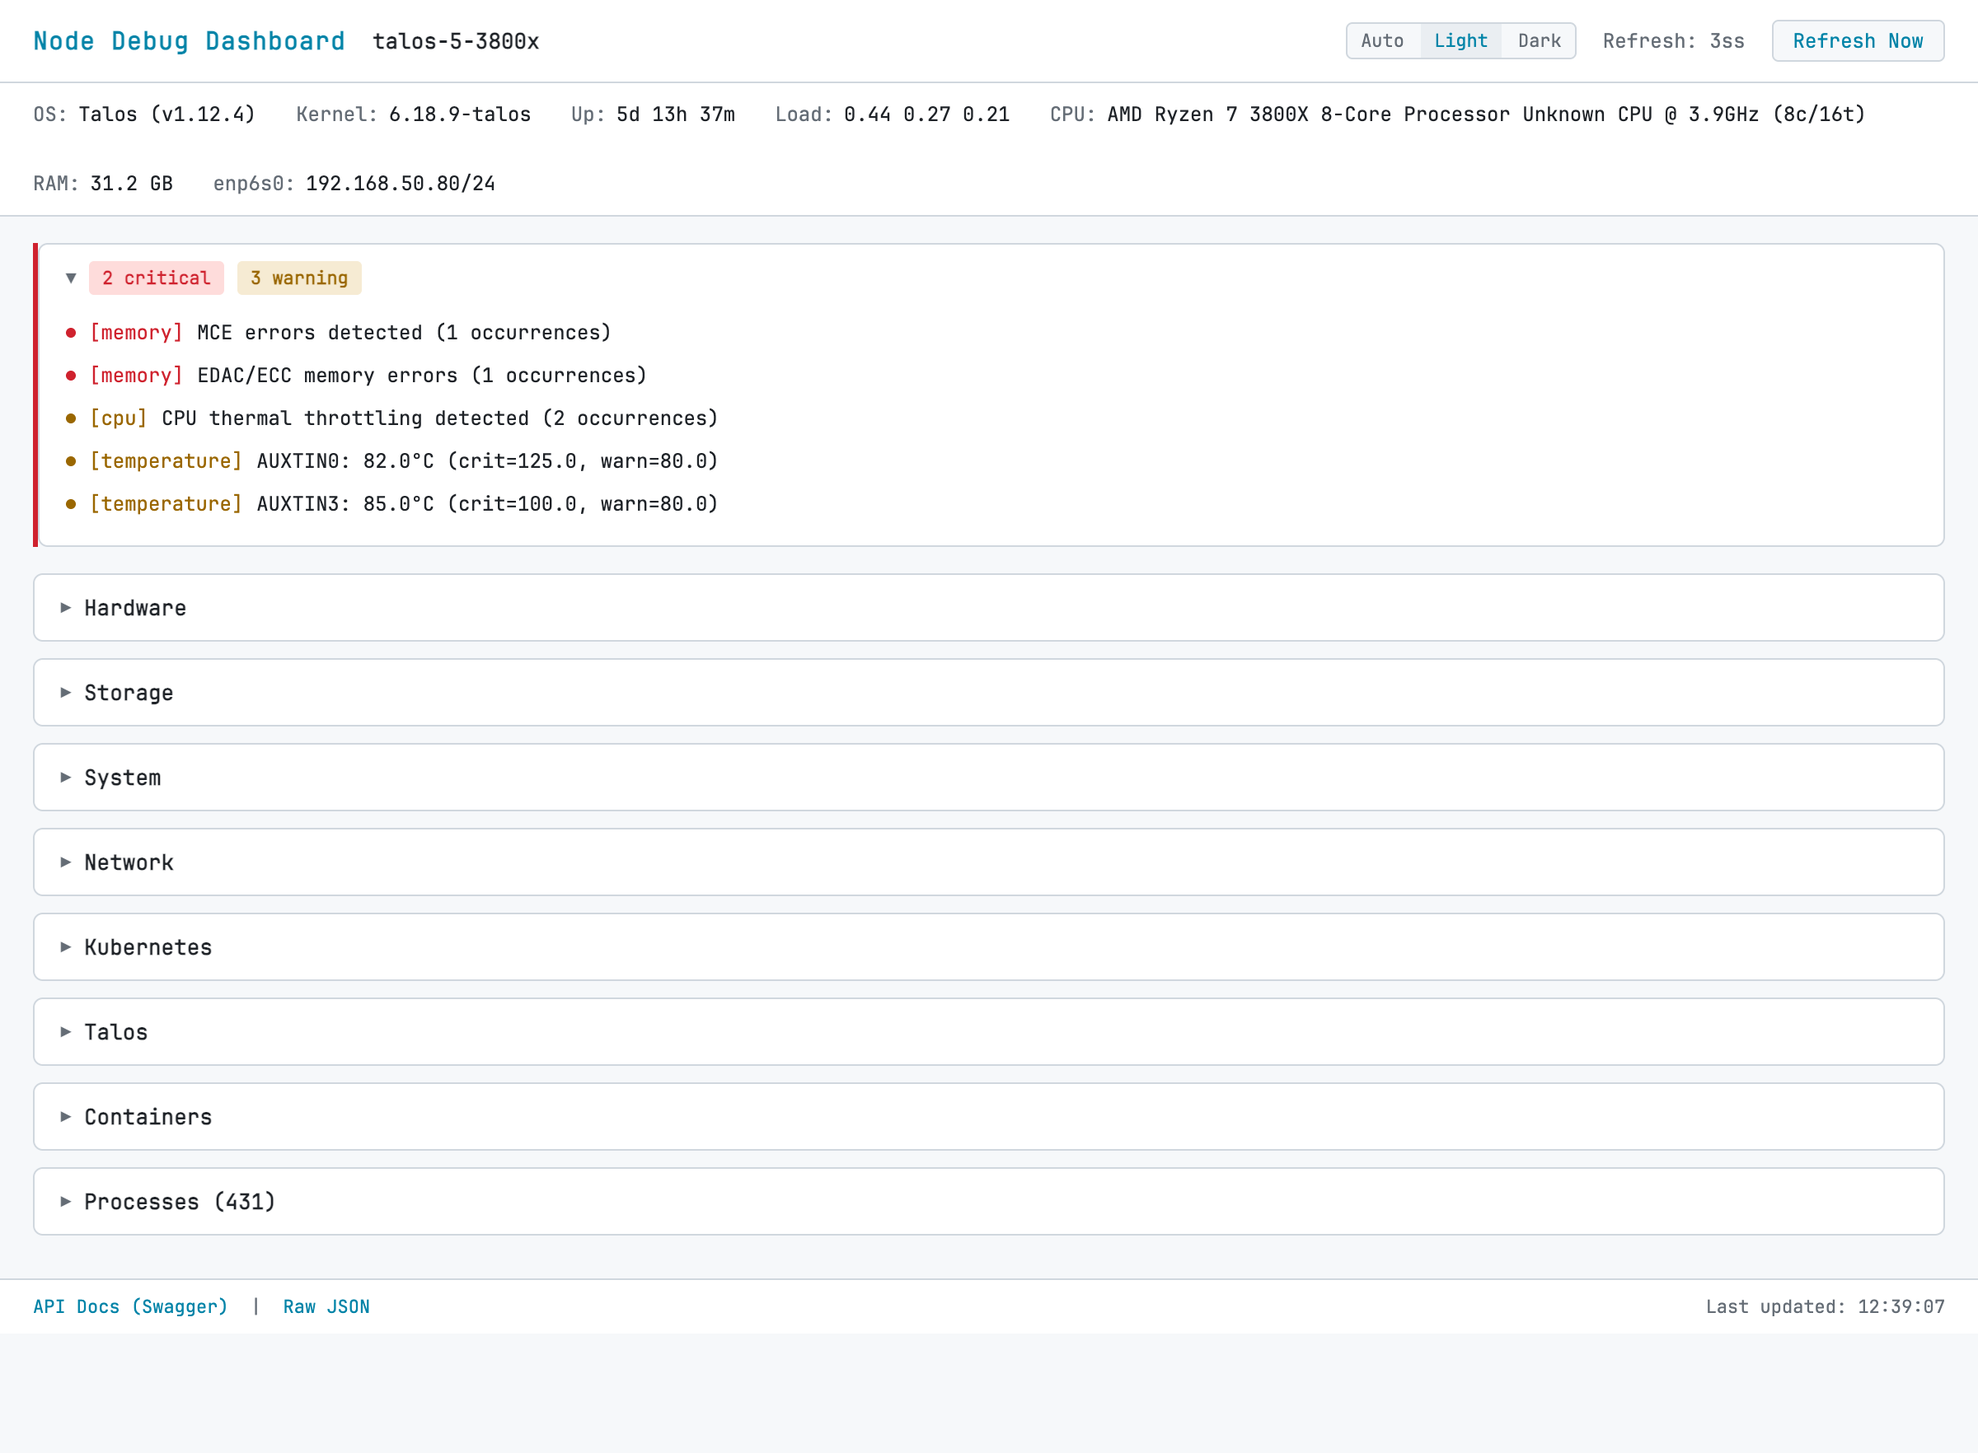
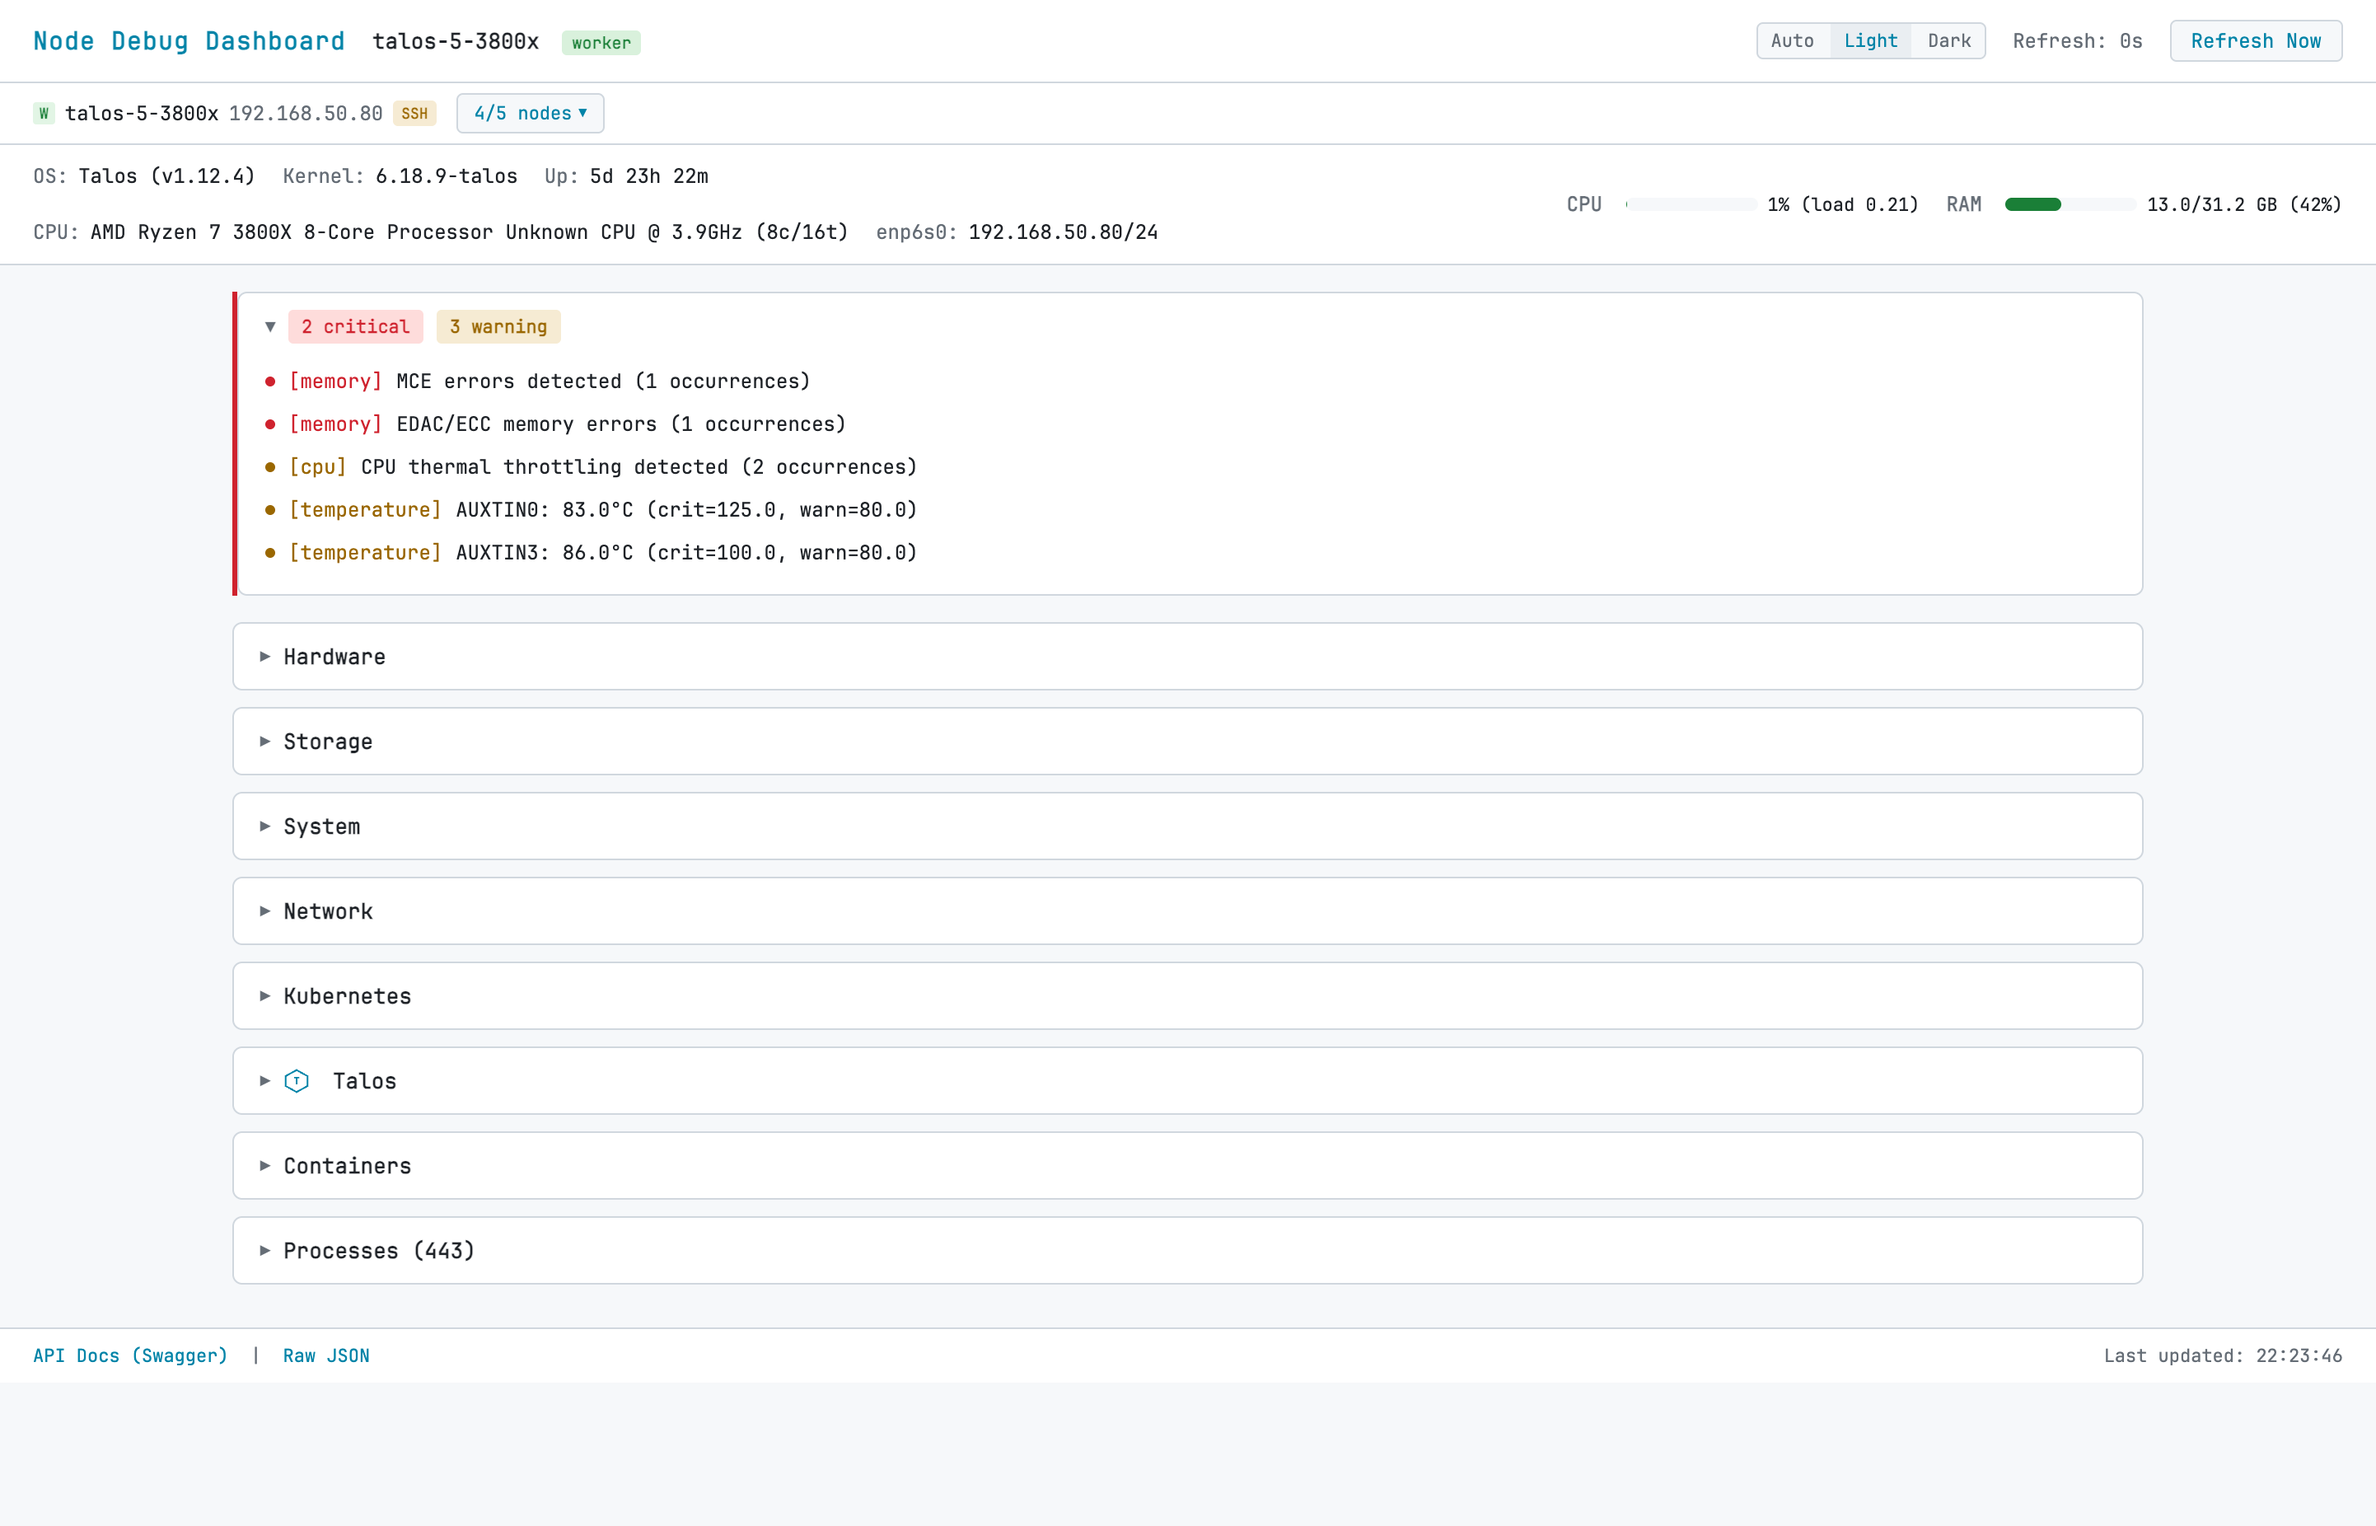
Update README and screenshots for v2
- Fresh screenshots showing: cluster dropdown, etcd details on CP,
  GPU on worker, SSH badges, CPU/RAM gauges, theme toggle
- README updated with all new features: SSH config env vars,
  etcd deep metrics, tiered caching table, section-based API,
  cluster navigation, theme persistence
- Added cluster-dropdown and etcd-cp-dark screenshots
- Updated architecture diagrams with etcd API and tiered cache

diff --git a/README.md b/README.md
@@ -6,20 +6,22 @@
 
 ## Features
 
-- **Hardware** — CPU, RAM (DIMMs, ECC), PCI, USB, NICs, sensors (temps/fans/voltages), NVIDIA GPUs
+- **Hardware** — CPU, RAM (DIMMs, ECC), PCI, USB, NICs, sensors (temps/fans/voltages), NVIDIA GPUs (via nsenter)
 - **Storage** — Disks, partitions, SMART health, disk usage with severity alerts
 - **System** — UEFI boot order and entries
 - **Network** — Interface stats, speed/duplex, error counters, DNS/internet/K8s API connectivity
-- **Kubernetes** — Node labels, conditions, capacity/allocatable resources, PKI certificates (obfuscated), component health probes
-- **Talos** — Machine config (safe fields only), version, certificates
-- **Containers** — System services + workload pods with memory stats, separated views
+- **Kubernetes** — Node labels, conditions, capacity/allocatable resources, PKI certificates (obfuscated), component health probes, etcd deep metrics (DB size, leader, members, raft index)
+- **Talos** — Machine type (worker/CP), extensions, network interfaces, version, schematic ID
+- **Containers** — System services (etcd, kubelet, apiserver...) + workload pods with memory stats
 - **Live Logs** — WebSocket-based container log streaming with tail
 - **Processes** — Top 200 host processes by memory with PID/PPID/user/CPU%/MEM%
 - **Warnings** — Aggregated alerts from SMART, temperatures, memory errors, disk usage, certificate expiry, K8s node conditions
-- **Themes** — Dark, Light, and Auto (follows OS preference), persisted in localStorage
-- **Auto-refresh** — 10-second polling with persistent UI state (open sections stay open)
-- **REST API** — Full Swagger/OpenAPI docs at `/docs`
-- **SSH Debug** — Port 2022 with 200+ pre-installed diagnostic tools
+- **Cluster Navigation** — Searchable dropdown listing all nodes with role/status, click to jump between dashboards
+- **SSH Access** — Configurable SSH server (enable/disable, password auth, authorized keys via env vars), orange SSH badge with click-to-copy command
+- **Themes** — Dark, Light, and Auto (follows OS preference), persists across nodes via URL params
+- **Scalable** — Tiered caching (10s/60s/5min), section-based parallel fetching, dropdown cluster bar with search
+- **Auto-refresh** — 10-second polling with persistent UI state (open sections and scroll position preserved)
+- **REST API** — Full Swagger/OpenAPI docs at `/docs`, per-section endpoints at `/api/sections/{name}`
 
 ## Screenshots
 
@@ -27,11 +29,15 @@
 |---|---|
 | ![Dark](docs/screenshots/overview-dark.png) | ![Light](docs/screenshots/overview-light.png) |
 
-| Hardware (Light) | Log Viewer |
+| Hardware + GPU (Light) | Live Log Viewer |
 |---|---|
 | ![Hardware](docs/screenshots/hardware-light.png) | ![Logs](docs/screenshots/log-viewer.png) |
 
-![Kubernetes & Containers](docs/screenshots/kubernetes-containers-dark.png)
+| K8s + etcd + Containers (CP Node) | Cluster Dropdown |
+|---|---|
+| ![K8s](docs/screenshots/etcd-cp-dark.png) | ![Cluster](docs/screenshots/cluster-dropdown.png) |
+
+![Kubernetes & Containers (Worker)](docs/screenshots/kubernetes-containers-dark.png)
 
 ## Architecture
 
@@ -49,9 +55,9 @@ graph TB
             SSHD["OpenSSH Server"]
 
             subgraph Collectors
-                HW["Hardware<br/>lscpu, dmidecode, lspci,<br/>lsusb, smartctl, sensors"]
-                K8S["Kubernetes<br/>K8s API, openssl, curl"]
-                TAL["Talos<br/>config.yaml, certs"]
+                HW["Hardware<br/>lscpu, dmidecode, lspci,<br/>lsusb, smartctl, nvidia-smi"]
+                K8S["Kubernetes<br/>K8s API, openssl, etcd API"]
+                TAL["Talos<br/>os-release, K8s labels"]
                 CT["Containers<br/>crictl ps/stats/inspect"]
                 PROC["Processes<br/>/host-proc filesystem"]
                 NET["Network<br/>ip, ethtool, dig, curl"]
@@ -62,6 +68,7 @@ graph TB
         HostProc["/host-proc — /proc"]
         CRI["containerd socket"]
         K8SAPI["Kubernetes API"]
+        EtcdAPI["etcd API :2379"]
     end
 
     Browser -->|"HTTP / WebSocket"| FastAPI
@@ -69,6 +76,7 @@ graph TB
     FastAPI --> Collectors
     HW --> HostFS
     K8S --> K8SAPI
+    K8S --> EtcdAPI
     TAL --> HostFS
     CT --> CRI
     PROC --> HostProc
@@ -85,21 +93,24 @@ flowchart LR
     end
 
     subgraph API["FastAPI Server"]
-        Overview["/api/overview"]
+        Sections["/api/sections/{name}"]
         WS["WS /api/containers/{id}/logs"]
-        Cache["TTL Cache — 10s"]
+        FastCache["Fast Cache — 10s<br/>node, cpu, memory,<br/>processes, containers"]
+        SlowCache["Slow Cache — 5min<br/>certs, storage, EFI,<br/>Talos, etcd"]
     end
 
     subgraph Host["Host Access"]
-        Cmds["System Commands<br/>lscpu, smartctl, crictl..."]
+        Cmds["System Commands<br/>lscpu, smartctl, crictl,<br/>nvidia-smi (nsenter)"]
         Files["File Reads<br/>/host/*, /host-proc/*"]
-        K8S["K8s API<br/>curl + SA token"]
+        K8S["K8s API + etcd API"]
         Logs["Log Files<br/>/host/var/log/pods/"]
     end
 
-    Dashboard -->|"fetch every 10s"| Overview
+    Dashboard -->|"parallel fetch"| Sections
     LogPanel -->|"WebSocket"| WS
-    Overview --> Cache --> Cmds & Files & K8S
+    Sections --> FastCache & SlowCache
+    FastCache --> Cmds & Files
+    SlowCache --> Cmds & Files & K8S
     WS -->|"tail -f"| Logs
 ```
 
@@ -121,17 +132,18 @@ classDiagram
 
     class Router {
         <<FastAPI APIRouter>>
-        +GET endpoints
-        +WebSocket endpoints
+        +GET /api/sections/name
+        +GET /api/kubernetes
+        +WS /api/containers/id/logs
     }
 
     class Frontend {
         <<Vanilla JS>>
-        +fetchOverview()
-        +render(data)
+        +fetchSection(name)
         +saveOpenState()
         +restoreOpenState()
         +WebSocket log viewer
+        +theme toggle
     }
 
     Router --> Collector : calls
@@ -162,11 +174,12 @@ spec:
       hostNetwork: true
       hostPID: true
       hostIPC: true
+      serviceAccountName: node-debug-dashboard
       tolerations:
         - operator: Exists
       containers:
         - name: dashboard
-          image: registry.iostack.fr/iostack/node-debug-dashboard:latest
+          image: your-registry/node-debug-dashboard:latest
           securityContext:
             privileged: true
           ports:
@@ -177,6 +190,12 @@ spec:
               valueFrom:
                 fieldRef:
                   fieldPath: spec.nodeName
+            - name: SSH_ENABLED
+              value: "true"
+            - name: SSH_PASSWORD_AUTH
+              value: "false"
+            - name: SSH_AUTHORIZED_KEYS
+              value: "ssh-ed25519 AAAA... user@host"
           volumeMounts:
             - name: host-root
               mountPath: /host
@@ -192,20 +211,24 @@ spec:
 
 Then access `http://<node-ip>/` for the dashboard, `http://<node-ip>/docs` for Swagger.
 
+> **Note:** Create a ServiceAccount with `get`/`list` permissions on `nodes` and `pods` for the Kubernetes and cluster navigation features.
+
 ### Docker (standalone)
 
 ```bash
 docker run --privileged --net=host --pid=host \
   -v /:/host:ro -v /proc:/host-proc:ro \
+  -e SSH_ENABLED=true \
   -p 80:80 -p 2022:2022 \
-  registry.iostack.fr/iostack/node-debug-dashboard:latest
+  your-registry/node-debug-dashboard:latest
 ```
 
 ## API Reference
 
 | Endpoint | Method | Description |
 |---|---|---|
-| `/api/overview` | GET | All sections aggregated (primary dashboard endpoint) |
+| `/api/sections/{name}` | GET | Fetch a single section (node, hardware, storage, system, network, kubernetes, talos, containers, processes, warnings, cluster_nodes) |
+| `/api/overview` | GET | All sections aggregated (legacy, slower) |
 | `/api/node` | GET | Hostname, kernel, uptime, load, IPs |
 | `/api/hardware` | GET | CPU, memory, PCI, USB, NICs, sensors, GPUs |
 | `/api/hardware/cpu` | GET | CPU details |
@@ -223,10 +246,10 @@ docker run --privileged --net=host --pid=host \
 | `/api/system/efi` | GET | UEFI boot order |
 | `/api/network` | GET | Network interfaces |
 | `/api/network/connectivity` | GET | DNS, internet, K8s API checks |
-| `/api/kubernetes` | GET | Full K8s overview |
+| `/api/kubernetes` | GET | Full K8s overview (node info, certs, components, etcd, cluster nodes, SSH info) |
 | `/api/kubernetes/node-info` | GET | Node labels, conditions, resources |
 | `/api/kubernetes/certificates` | GET | K8s PKI certs (obfuscated) |
-| `/api/kubernetes/components` | GET | Component health probes |
+| `/api/kubernetes/components` | GET | Component health probes + etcd metrics |
 | `/api/talos` | GET | Full Talos overview |
 | `/api/talos/config` | GET | Machine config (safe fields) |
 | `/api/talos/certificates` | GET | Talos certs (obfuscated) |
@@ -245,9 +268,21 @@ docker run --privileged --net=host --pid=host \
 |---|---|---|
 | `HOST_ROOT` | `/host` | Host root filesystem mount path |
 | `HOST_PROC` | `/host-proc` | Host /proc mount path |
-| `CACHE_TTL` | `10` | Collector cache TTL in seconds |
+| `CACHE_TTL` | `10` | Default collector cache TTL in seconds |
 | `COMMAND_TIMEOUT` | `10` | Subprocess timeout in seconds |
 | `KUBERNETES_NODE_NAME` | — | Node name (set via fieldRef in K8s) |
+| `SSH_ENABLED` | `true` | Enable/disable the SSH server |
+| `SSH_PORT` | `2022` | SSH listen port |
+| `SSH_PASSWORD_AUTH` | `true` | Enable/disable password authentication |
+| `SSH_AUTHORIZED_KEYS` | — | Newline-separated public keys for SSH access |
+
+### Caching Tiers
+
+| TTL | Collectors |
+|---|---|
+| 10s | node, cpu, memory, sensors, processes, containers, network, dmesg, gpu |
+| 60s | K8s node info, cluster node list |
+| 300s (5min) | K8s certificates, K8s components + etcd, K8s API endpoint, storage, EFI, Talos |
 
 ## Development
 
@@ -273,7 +308,7 @@ docker build -t node-debug-dashboard .
 ```
 app/
 ├── main.py                 # FastAPI app, router registration
-├── config.py               # Environment-based configuration
+├── config.py               # Environment-based configuration (host paths, SSH, cache)
 ├── collectors/             # Async data gathering modules
 │   ├── base.py             # run_command(), read_file(), ttl_cache()
 │   ├── node.py             # Hostname, kernel, uptime, load
@@ -282,24 +317,28 @@ app/
 │   ├── pci.py              # PCI devices
 │   ├── usb.py              # USB devices
 │   ├── network.py          # NICs, connectivity
-│   ├── sensors.py          # Temps, fans, voltages
-│   ├── gpu.py              # NVIDIA GPUs
+│   ├── sensors.py          # Temps, fans, voltages via sysfs
+│   ├── gpu.py              # NVIDIA GPUs via nsenter + nvidia-smi
 │   ├── storage.py          # Disks, SMART, usage
 │   ├── efi.py              # UEFI boot order
 │   ├── dmesg.py            # Kernel log warnings
-│   ├── kubernetes.py       # K8s API, certs, components
-│   ├── talos.py            # Machine config, certs
-│   ├── containers.py       # crictl-based container listing
+│   ├── kubernetes.py       # K8s API, certs, components, etcd, cluster nodes
+│   ├── talos.py            # Machine config, certs, version
+│   ├── containers.py       # crictl-based container listing + stats
 │   └── processes.py        # /proc filesystem reader
 ├── models/                 # Pydantic response models
 ├── routers/                # FastAPI route handlers
-│   ├── overview.py         # /api/overview aggregator
+│   ├── overview.py         # /api/overview aggregator (legacy)
+│   ├── sections.py         # /api/sections/{name} per-section endpoint
 │   ├── warnings.py         # /api/warnings aggregator
+│   ├── containers.py       # REST + WebSocket log streaming
 │   └── ...                 # Per-section routers
-└── static/                 # Frontend (vanilla HTML/CSS/JS)
-    ├── index.html
-    ├── style.css
-    └── app.js
+├── static/                 # Frontend (vanilla HTML/CSS/JS, no build step)
+│   ├── index.html          # Dashboard layout + cluster bar + log modal
+│   ├── style.css           # Dark/light/auto theme, responsive, gauges
+│   └── app.js              # Section fetching, rendering, WebSocket, theme
+├── entrypoint.sh           # Starts sshd (conditional) + uvicorn
+└── Dockerfile              # debian:bookworm + 200 tools + crictl + Python
 ```
 
 ## License
